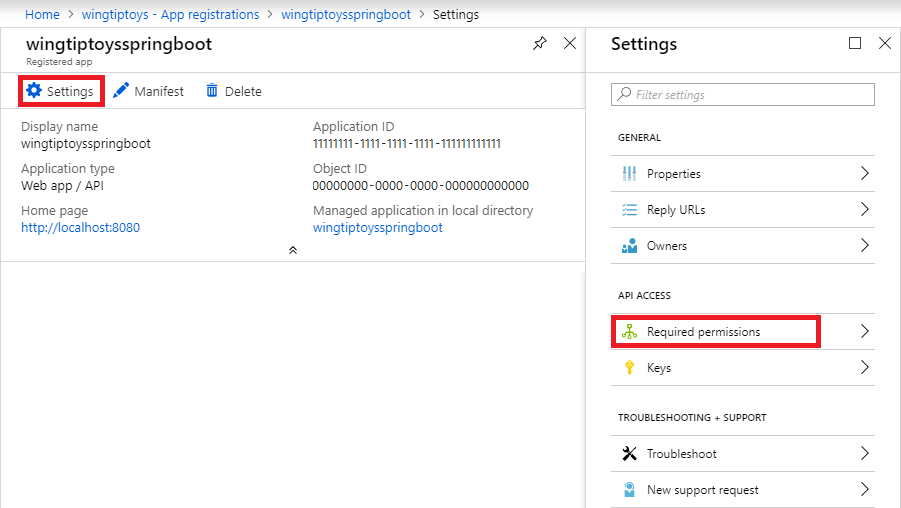
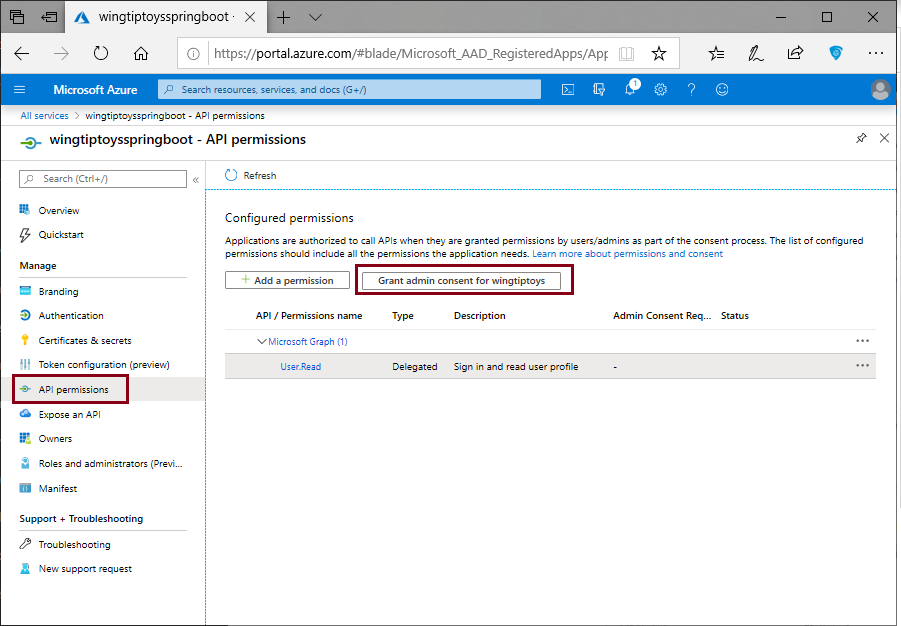
Revising Add Registration section

diff --git a/java/spring-framework/configure-spring-boot-starter-java-app-with-azure-active-directory.md b/java/spring-framework/configure-spring-boot-starter-java-app-with-azure-active-directory.md
@@ -81,46 +81,51 @@ When you have finished, click **Create**. It will take a few minutes to create t
 
    ![Add a new app registration][create-app-registration-01]
 
-2. Specify your application, and then click **Register**.
+1. Specify your application, and then click **Register**.
 
    ![Create new app registration][create-app-registration-02]
 
-4. When the page for your app registration appears, copy your **Application ID** and the **Tenant ID**; you will use these values to configure your *application.properties* file later in this tutorial.
-
-Click **Settings**, and then click **Keys**.
----> Instructions diverge to far from new UI here --> 
+1. When the page for your app registration appears, copy your **Application ID** and the **Tenant ID**; you will use these values to configure your *application.properties* file later in this tutorial.
 
    ![Create app registration keys][create-app-registration-03]
 
-5. Add a **Description** and specify the **Duration** for a new key and click **Save**; the value for the key will be automatically filled in when you click the **Save** icon, and you need to copy down the value of the key to configure your *application.properties* file later in this tutorial. (You will not be able to retrieve this value later.)
+1. Click **Certificates & secrets** in the left navigation pane.  Then click **New client secret**.
+
+   ![Create app registration keys][create-app-registration-03.5]
+
+1. Add a **Description** and select duration in the **Expires** list.  Click **Add**. The value for the key will be automatically filled in.
 
    ![Specify app registration key parameters][create-app-registration-04]
 
-6. From the main page for your app registration, click **Settings**, and then click **Required permissions**.
+1. Copy and save the value of the client secret to configure your *application.properties* file later in this tutorial. (You will not be able to retrieve this value later.)
+
+   ![Specify app registration key parameters][create-app-registration-04.5]
+
+1. From the left navigation pane click **API permissions**.  Click **Grant admin consent for wingtiptoys**, and then accept the option in the dialog.
 
    ![App registration required permissions][create-app-registration-05]
 
-7. Click **Windows Azure Active Directory**.
+1. Click **Windows Azure Active Directory**.
 
    ![Select Windows Azure Active Directory][create-app-registration-06]
 
-8. Check the boxes for **Access the directory as the signed-in user** and **Sign in and read user profile**, and then click **Save**.
+1. Check the boxes for **Access the directory as the signed-in user** and **Sign in and read user profile**, and then click **Save**.
 
    ![Enable access permissions][create-app-registration-07]
 
-9. On the **Required permissions** page, click **Grant Permissions**, and click **Yes** when prompted.
+1. On the **Required permissions** page, click **Grant Permissions**, and click **Yes** when prompted.
 
    ![Grant access permissions][create-app-registration-08]
 
-10. From the main page for your app registration, click **Settings**, and then click **Reply URLs**.
+1. From the main page for your app registration, click **Settings**, and then click **Reply URLs**.
 
     ![Edit Reply URLs][create-app-registration-09]
 
-11. Enter "<http://localhost:8080/login/oauth2/code/azure>" as a new reply URL, and then click **Save**.
+1. Enter "<http://localhost:8080/login/oauth2/code/azure>" as a new reply URL, and then click **Save**.
 
     ![Add new Reply URL][create-app-registration-10]
 
-12. From the main page for your app registration, click **Manifest**, then set the value of the `oauth2AllowImplicitFlow` parameter to `true`, and then click **Save**.
+1. From the main page for your app registration, click **Manifest**, then set the value of the `oauth2AllowImplicitFlow` parameter to `true`, and then click **Save**.
 
     ![Configure app manifest][create-app-registration-11]
 
@@ -373,7 +378,9 @@ To learn more about Spring and Azure, continue to the Spring on Azure documentat
 [create-app-registration-01]: media/configure-spring-boot-starter-java-app-with-azure-active-directory/create-app-registration-01.png
 [create-app-registration-02]: media/configure-spring-boot-starter-java-app-with-azure-active-directory/create-app-registration-02.png
 [create-app-registration-03]: media/configure-spring-boot-starter-java-app-with-azure-active-directory/create-app-registration-03.png
+[create-app-registration-03.5]: media/configure-spring-boot-starter-java-app-with-azure-active-directory/create-app-registration-03.5.png
 [create-app-registration-04]: media/configure-spring-boot-starter-java-app-with-azure-active-directory/create-app-registration-04.png
+[create-app-registration-04.5]: media/configure-spring-boot-starter-java-app-with-azure-active-directory/create-app-registration-04.5.png
 [create-app-registration-05]: media/configure-spring-boot-starter-java-app-with-azure-active-directory/create-app-registration-05.png
 [create-app-registration-06]: media/configure-spring-boot-starter-java-app-with-azure-active-directory/create-app-registration-06.png
 [create-app-registration-07]: media/configure-spring-boot-starter-java-app-with-azure-active-directory/create-app-registration-07.png
